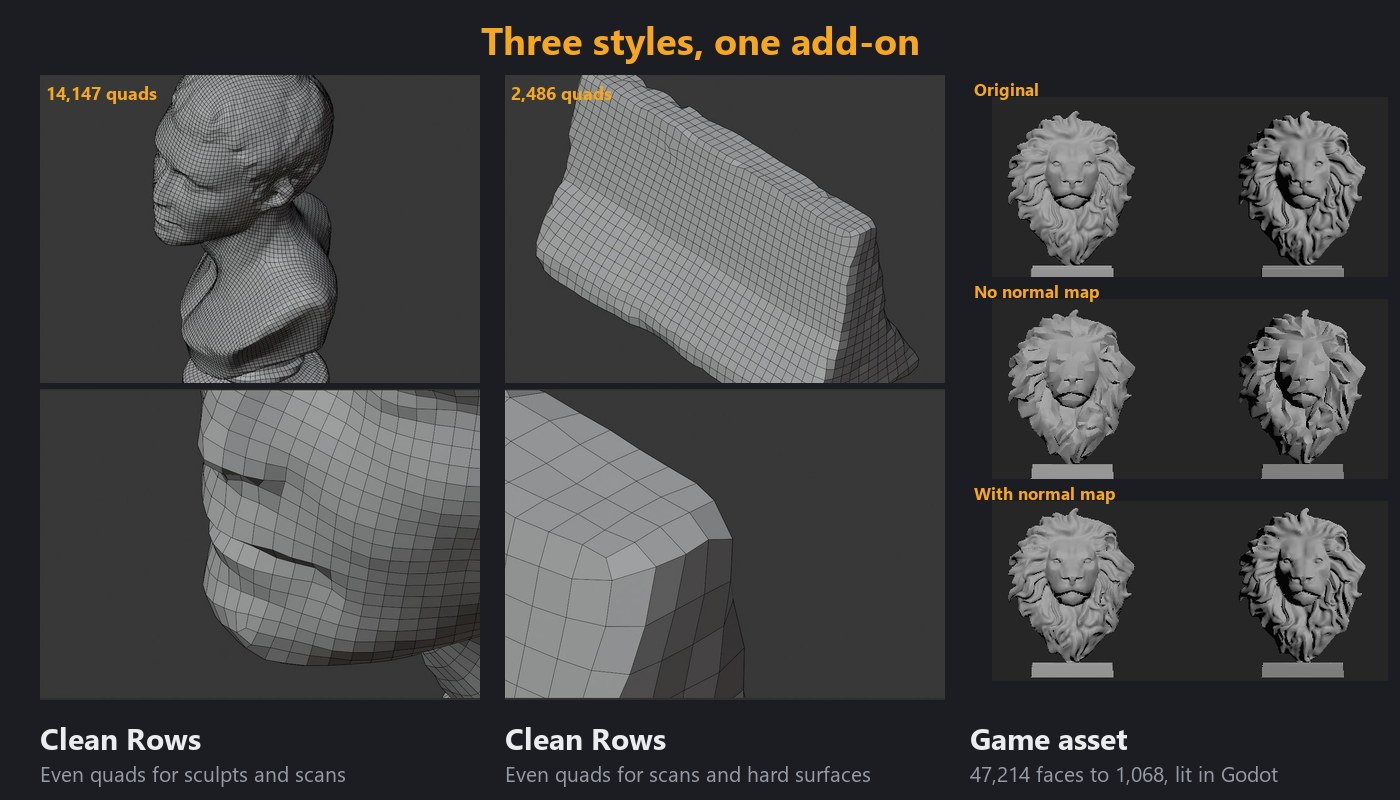
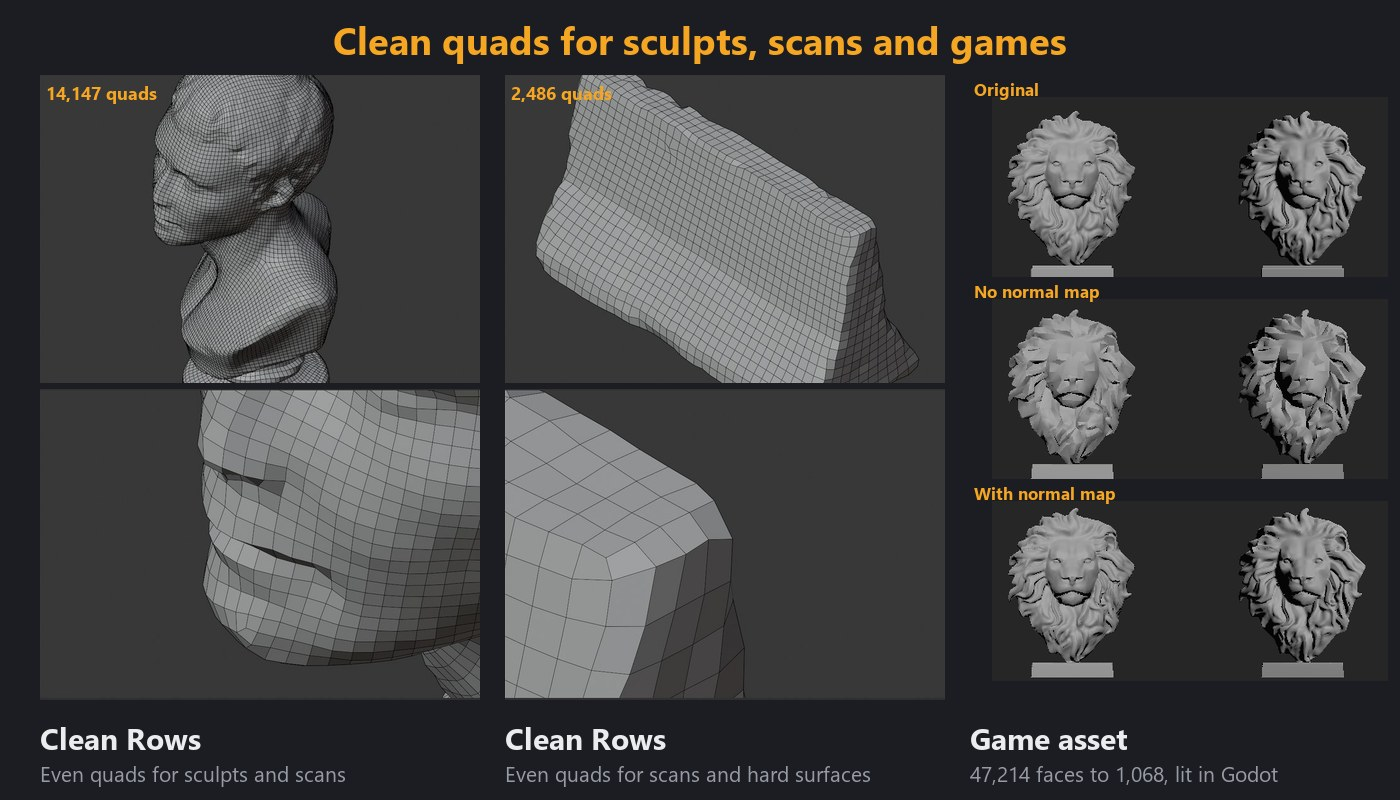
Hero picture title matches what it shows

Changed region(s): [[0.215, 0.0312, 0.7679, 0.0938]]

diff --git a/scripts/make_trailer.py b/scripts/make_trailer.py
@@ -145,7 +145,7 @@ def build_trailer():
 def build_hero():
     rows = sheet_rows()
     im, d = canvas(1400, 800)
-    center(d, "Three styles, one add-on", 14, 38, ACC, True, 1400)
+    center(d, "Clean quads for sculpts, scans and games", 14, 38, ACC, True, 1400)
     pw = 440
 
     def lion():
